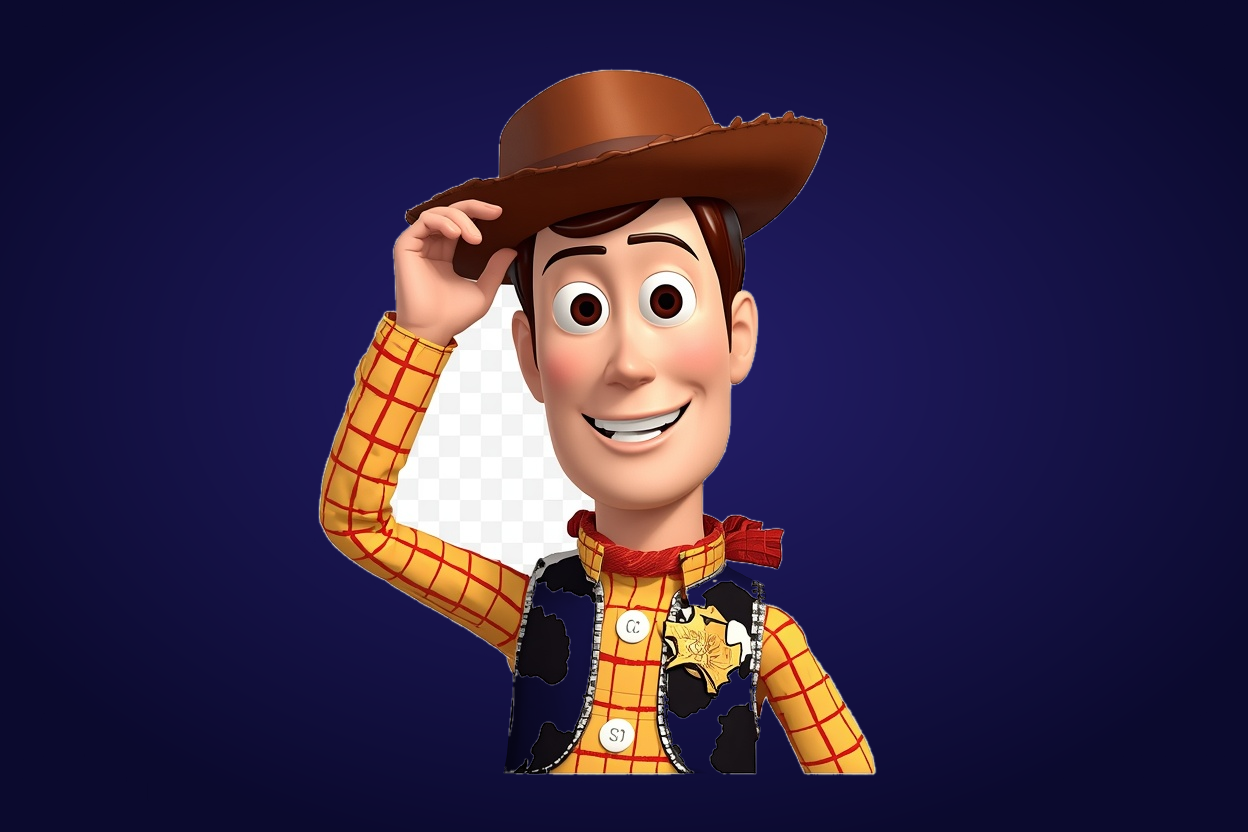
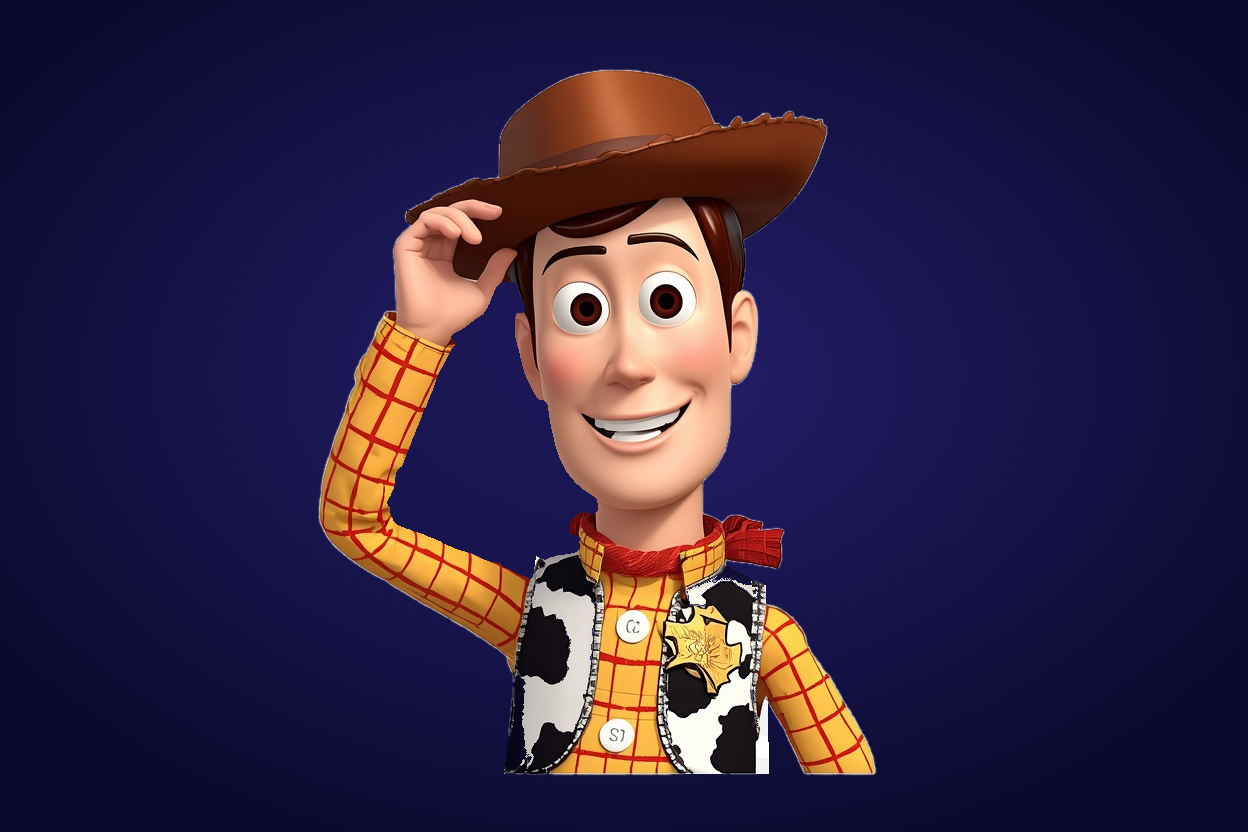
search: fix Woody answer (fill checkerboard hole, restore white vest patches); notes

Changed region(s): [[0.3125, 0.3438, 0.5, 0.9062], [0.5312, 0.8125, 0.625, 0.9375], [0.5312, 0.6875, 0.625, 0.7188]]

diff --git a/docs/search-notes/ios-polish.md b/docs/search-notes/ios-polish.md
@@ -1,0 +1,8 @@
+# iOS polish: status
+
+Done: hint tiles, soft sound mapping (search-sound.ts SOFT_SWAP / SOFT_GAIN), calm camera (search-settings.json "camera"),
+level card / reminder / iris wired into SearchMain (they were still plain gradients there), Woody (answer 10) repaired.
+
+Not done: voiceover (search-voiceover-manifest.json is empty; needs the audio clips generated and listed).
+Check by eye: level card, reminder and iris scenes; hint tiles on dark pictures; Woody vest edge (answer-10.png).
+Camera back on: set search-settings.json camera.cards / camera.motionBlur to true.
